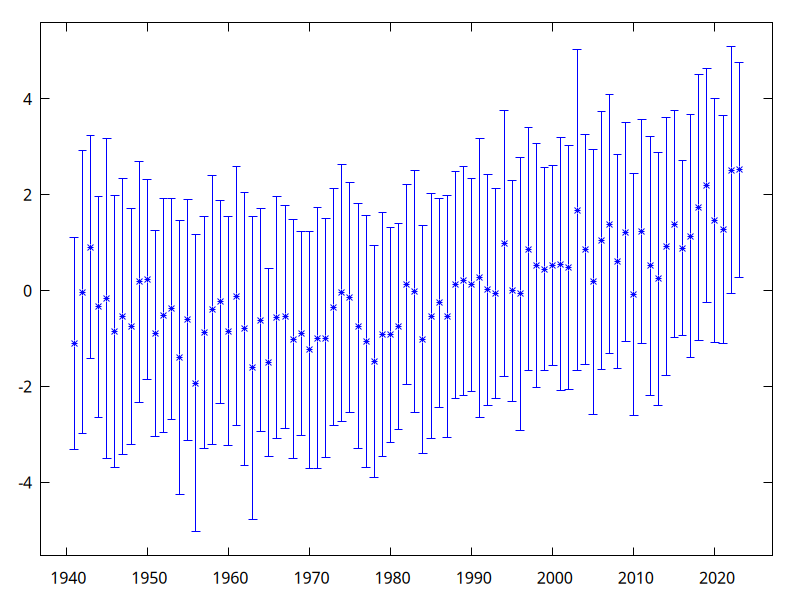
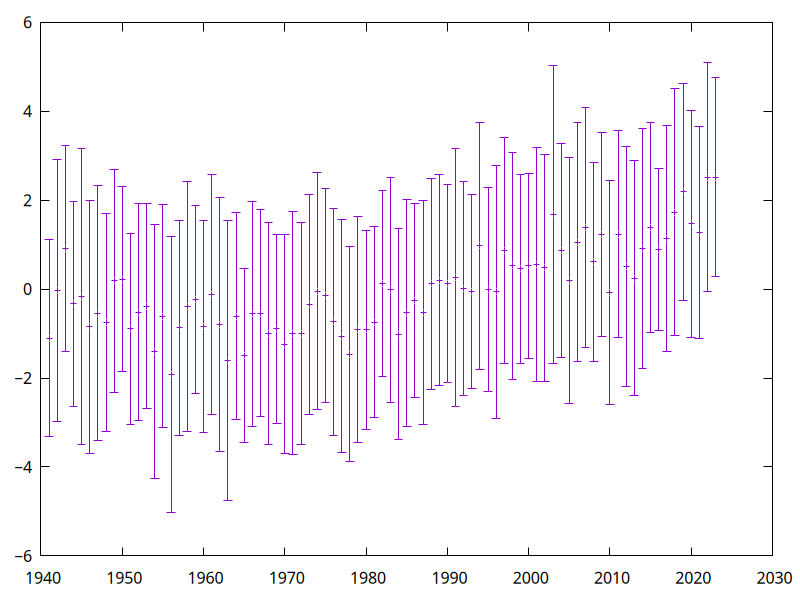
Fix error in exercise 4.0

diff --git a/carminati-esercizi-04.html b/carminati-esercizi-04.html
@@ -96,7 +96,7 @@
 <span id="cb1-10"><a href="#cb1-10" aria-hidden="true" tabindex="-1"></a>  <span class="cf">return</span> accum <span class="op">/</span> n<span class="op">;</span></span>
 <span id="cb1-11"><a href="#cb1-11" aria-hidden="true" tabindex="-1"></a><span class="op">}</span></span></code></pre></div>
 <p>Ovviamente dovete tenere conto del numero effettivo di campioni che sommate in <code>accum</code>: la riga finale deve essere <code>accum / n</code>, non certo <code>accum / ssize(v)</code>! Il codice per la deviazione standard si calcola allo stesso modo.</p>
-<p><strong>Attenzione:</strong> non è corretto calcolare la media su <em>tutti</em> i campioni e la deviazione standard prendendone uno ogni sette, perché i due numeri farebbero riferimento a distribuzioni diverse!</p>
+<p><strong>Attenzione:</strong> non è corretto calcolare la media su <em>tutti</em> i campioni e la deviazione standard invece prendendone uno ogni sette, perché i due numeri farebbero riferimento a distribuzioni diverse!</p>
 <p>Vi fornisco il codice per i test:</p>
 <div class="sourceCode" id="cb2"><pre class="sourceCode cpp"><code class="sourceCode cpp"><span id="cb2-1"><a href="#cb2-1" aria-hidden="true" tabindex="-1"></a><span class="dt">void</span> test_statistics_with_stride<span class="op">()</span> <span class="op">{</span></span>
 <span id="cb2-2"><a href="#cb2-2" aria-hidden="true" tabindex="-1"></a>  vector<span class="op">&lt;</span><span class="dt">double</span><span class="op">&gt;</span> v<span class="op">{</span><span class="fl">1.0</span><span class="op">,</span> <span class="fl">2.0</span><span class="op">,</span> <span class="fl">3.0</span><span class="op">,</span> <span class="fl">4.0</span><span class="op">,</span> <span class="fl">5.0</span><span class="op">,</span> <span class="fl">6.0</span><span class="op">};</span></span>
@@ -126,25 +126,26 @@
 <span id="cb3-12"><a href="#cb3-12" aria-hidden="true" tabindex="-1"></a></span>
 <span id="cb3-13"><a href="#cb3-13" aria-hidden="true" tabindex="-1"></a>    vector v<span class="op">{</span>Read<span class="op">&lt;</span><span class="dt">double</span><span class="op">&gt;(</span>filename<span class="op">.</span>c_str<span class="op">())};</span></span>
 <span id="cb3-14"><a href="#cb3-14" aria-hidden="true" tabindex="-1"></a></span>
-<span id="cb3-15"><a href="#cb3-15" aria-hidden="true" tabindex="-1"></a>    <span class="dt">double</span> ave<span class="op">{</span>mean<span class="op">(</span>v<span class="op">,</span> stride<span class="op">)};</span></span>
-<span id="cb3-16"><a href="#cb3-16" aria-hidden="true" tabindex="-1"></a>    <span class="dt">double</span> err<span class="op">{</span>stddev<span class="op">(</span>v<span class="op">,</span> stride<span class="op">)};</span></span>
-<span id="cb3-17"><a href="#cb3-17" aria-hidden="true" tabindex="-1"></a></span>
-<span id="cb3-18"><a href="#cb3-18" aria-hidden="true" tabindex="-1"></a>    println<span class="op">(</span><span class="st">&quot;Anno </span><span class="sc">{}</span><span class="st"> Δ medio = </span><span class="sc">{:.3f}</span><span class="st"> ± </span><span class="sc">{:.3f}</span><span class="st">&quot;</span><span class="op">,</span> year<span class="op">,</span> ave<span class="op">,</span> err<span class="op">);</span></span>
+<span id="cb3-15"><a href="#cb3-15" aria-hidden="true" tabindex="-1"></a>    <span class="co">// Qui inserite i vostri calcoli. Attenzione a calcolare</span></span>
+<span id="cb3-16"><a href="#cb3-16" aria-hidden="true" tabindex="-1"></a>    <span class="co">// la deviazione standard DELLA MEDIA!</span></span>
+<span id="cb3-17"><a href="#cb3-17" aria-hidden="true" tabindex="-1"></a>    <span class="dt">double</span> ave<span class="op">{</span><span class="co">/* … */</span><span class="op">};</span></span>
+<span id="cb3-18"><a href="#cb3-18" aria-hidden="true" tabindex="-1"></a>    <span class="dt">double</span> err<span class="op">{</span><span class="co">/* … */</span><span class="op">};</span></span>
 <span id="cb3-19"><a href="#cb3-19" aria-hidden="true" tabindex="-1"></a></span>
-<span id="cb3-20"><a href="#cb3-20" aria-hidden="true" tabindex="-1"></a>    <span class="co">// inserisco media e deviazione standard dalla media nel grafico</span></span>
-<span id="cb3-21"><a href="#cb3-21" aria-hidden="true" tabindex="-1"></a>    plt<span class="op">.</span>add_point_yerr<span class="op">(</span>year<span class="op">,</span> ave<span class="op">,</span> err<span class="op">);</span></span>
-<span id="cb3-22"><a href="#cb3-22" aria-hidden="true" tabindex="-1"></a>  <span class="op">}</span></span>
-<span id="cb3-23"><a href="#cb3-23" aria-hidden="true" tabindex="-1"></a></span>
-<span id="cb3-24"><a href="#cb3-24" aria-hidden="true" tabindex="-1"></a>  plt<span class="op">.</span>plot_yerr<span class="op">();</span></span>
-<span id="cb3-25"><a href="#cb3-25" aria-hidden="true" tabindex="-1"></a>  plt<span class="op">.</span>show<span class="op">();</span></span>
-<span id="cb3-26"><a href="#cb3-26" aria-hidden="true" tabindex="-1"></a><span class="op">}</span></span></code></pre></div>
-<p>L’output atteso inizia così:</p>
+<span id="cb3-20"><a href="#cb3-20" aria-hidden="true" tabindex="-1"></a>    println<span class="op">(</span><span class="st">&quot;Anno </span><span class="sc">{}</span><span class="st"> Δ medio = </span><span class="sc">{:.3f}</span><span class="st"> ± </span><span class="sc">{:.3f}</span><span class="st">&quot;</span><span class="op">,</span> year<span class="op">,</span> ave<span class="op">,</span> err<span class="op">);</span></span>
+<span id="cb3-21"><a href="#cb3-21" aria-hidden="true" tabindex="-1"></a></span>
+<span id="cb3-22"><a href="#cb3-22" aria-hidden="true" tabindex="-1"></a>    <span class="co">// inserisco media e deviazione standard dalla media nel grafico</span></span>
+<span id="cb3-23"><a href="#cb3-23" aria-hidden="true" tabindex="-1"></a>    plt<span class="op">.</span>add_point_yerr<span class="op">(</span>year<span class="op">,</span> ave<span class="op">,</span> err<span class="op">);</span></span>
+<span id="cb3-24"><a href="#cb3-24" aria-hidden="true" tabindex="-1"></a>  <span class="op">}</span></span>
+<span id="cb3-25"><a href="#cb3-25" aria-hidden="true" tabindex="-1"></a></span>
+<span id="cb3-26"><a href="#cb3-26" aria-hidden="true" tabindex="-1"></a>  plt<span class="op">.</span>plot_yerr<span class="op">();</span></span>
+<span id="cb3-27"><a href="#cb3-27" aria-hidden="true" tabindex="-1"></a>  plt<span class="op">.</span>show<span class="op">();</span></span>
+<span id="cb3-28"><a href="#cb3-28" aria-hidden="true" tabindex="-1"></a><span class="op">}</span></span></code></pre></div>
+<p>L’output atteso dovrebbe iniziare così:</p>
 <pre><code>All the tests have passed. Hurrah! 🥳
-Anno 1941 Δ medio = -1.100 ± 2.207
-Anno 1942 Δ medio = -0.033 ± 2.951
-Anno 1943 Δ medio = +0.909 ± 2.322
-Anno 1944 Δ medio = -0.334 ± 2.305
-…</code></pre>
+Anno 1941 Δ medio = -1.100 ± 0.306
+Anno 1942 Δ medio = -0.033 ± 0.409
+Anno 1943 Δ medio = 0.909 ± 0.322
+Anno 1944 Δ medio = -0.334 ± 0.320</code></pre>
 <p>Questo è il grafico atteso:</p>
 <p><img src="images/esercizio04.0.png" /></p>
 <h2 id="esempio-di-codice-con-root">Esempio di codice con ROOT</h2>

diff --git a/carminati-esercizi-04.md b/carminati-esercizi-04.md
@@ -44,7 +44,7 @@ Potreste implementare media e deviazione standard in questo modo:
 
 Ovviamente dovete tenere conto del numero effettivo di campioni che sommate in `accum`: la riga finale deve essere `accum / n`, non certo `accum / ssize(v)`! Il codice per la deviazione standard si calcola allo stesso modo.
 
-**Attenzione:** non è corretto calcolare la media su *tutti* i campioni e la deviazione standard prendendone uno ogni sette, perché i due numeri farebbero riferimento a distribuzioni diverse!
+**Attenzione:** non è corretto calcolare la media su *tutti* i campioni e la deviazione standard invece prendendone uno ogni sette, perché i due numeri farebbero riferimento a distribuzioni diverse!
 
 Vi fornisco il codice per i test:
 
@@ -82,8 +82,10 @@ int main() {
 
     vector v{Read<double>(filename.c_str())};
 
-    double ave{mean(v, stride)};
-    double err{stddev(v, stride)};
+    // Qui inserite i vostri calcoli. Attenzione a calcolare
+    // la deviazione standard DELLA MEDIA!
+    double ave{/* … */};
+    double err{/* … */};
 
     println("Anno {} Δ medio = {:.3f} ± {:.3f}", year, ave, err);
 
@@ -96,15 +98,14 @@ int main() {
 }
 ```
 
-L'output atteso inizia così:
+L'output atteso dovrebbe iniziare così:
 
 ```
 All the tests have passed. Hurrah! 🥳
-Anno 1941 Δ medio = -1.100 ± 2.207
-Anno 1942 Δ medio = -0.033 ± 2.951
-Anno 1943 Δ medio = +0.909 ± 2.322
-Anno 1944 Δ medio = -0.334 ± 2.305
-…
+Anno 1941 Δ medio = -1.100 ± 0.306
+Anno 1942 Δ medio = -0.033 ± 0.409
+Anno 1943 Δ medio = 0.909 ± 0.322
+Anno 1944 Δ medio = -0.334 ± 0.320
 ```
 
 Questo è il grafico atteso:
